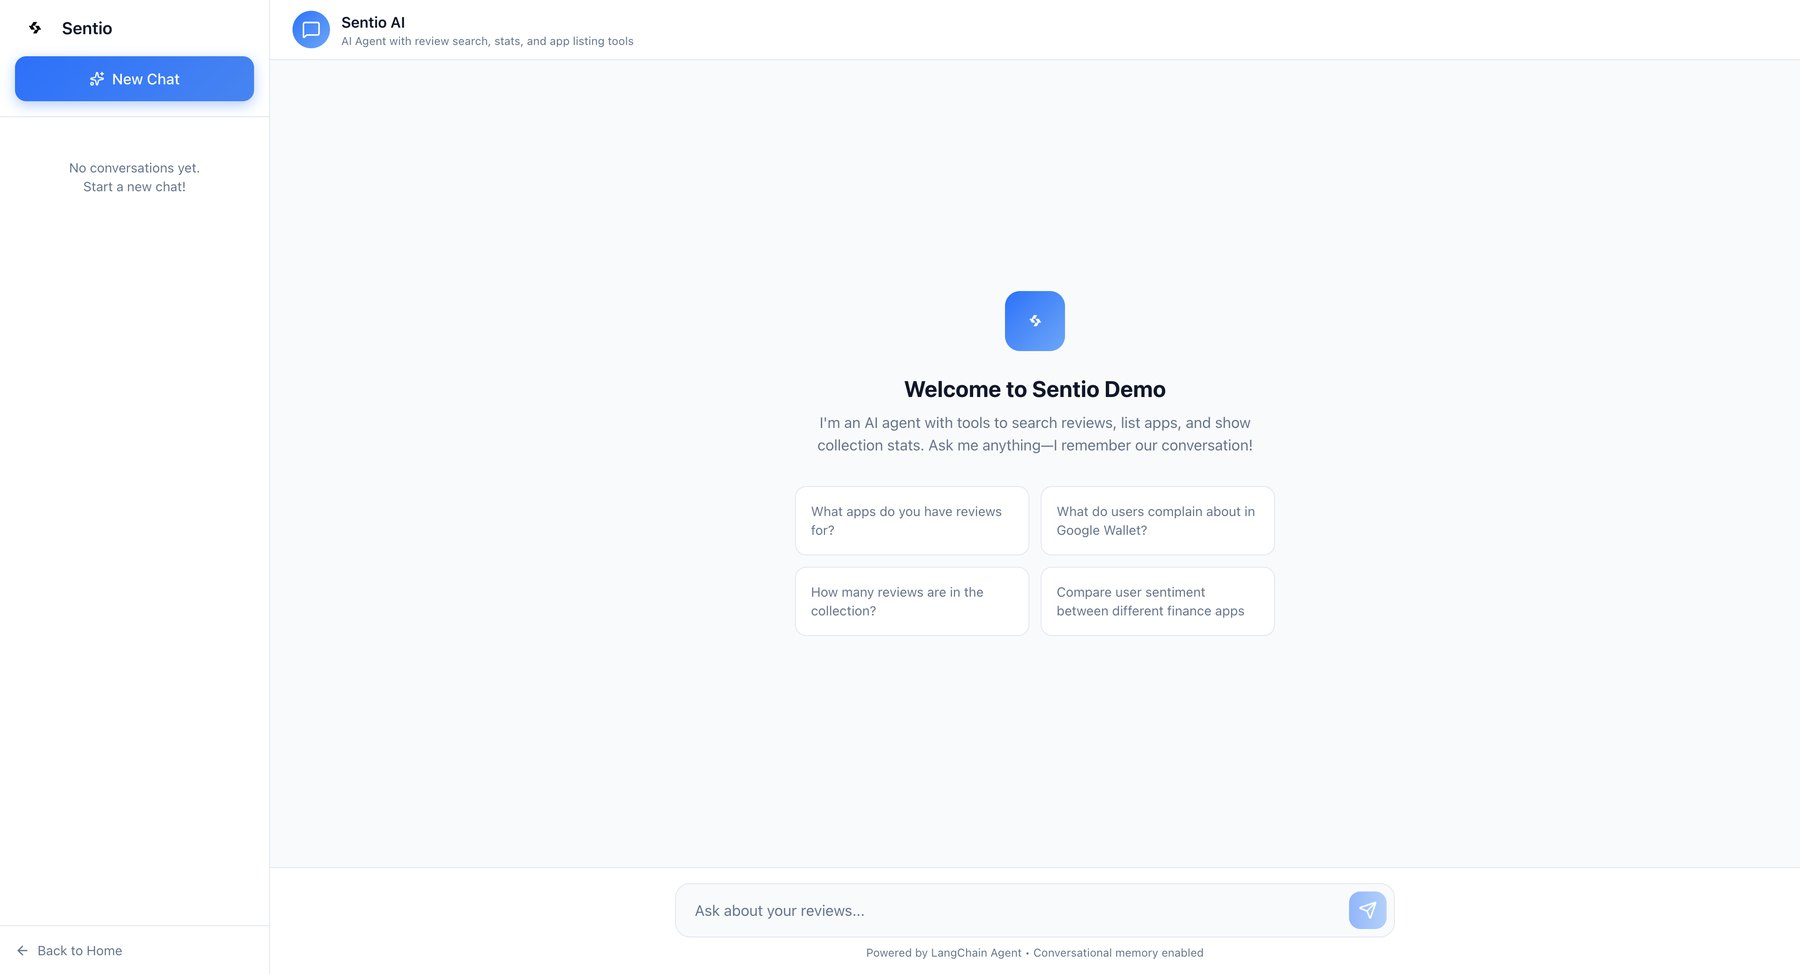
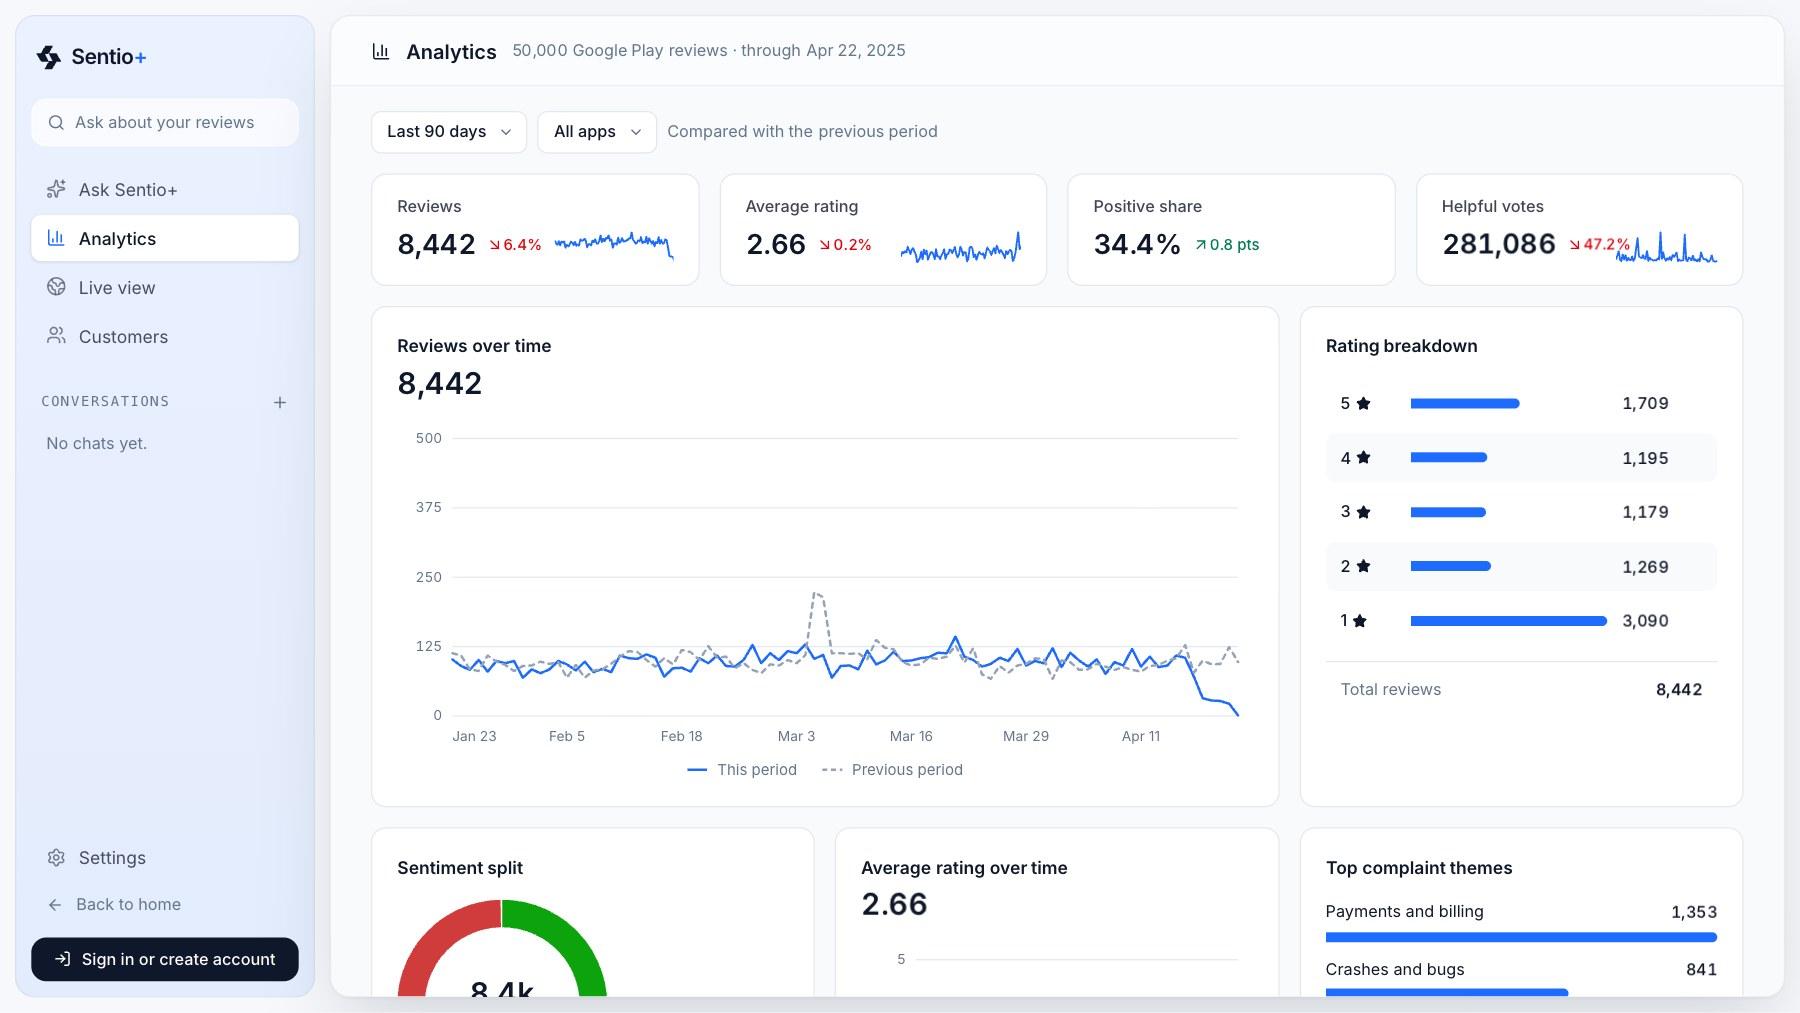
Sentio+: fresh Ask and Analytics captures from the current build

diff --git a/my-app/src/components/showcases/index.tsx b/my-app/src/components/showcases/index.tsx
@@ -134,7 +134,7 @@ const sentio: Showcase = {
       title: 'Ask a question, get an answer with receipts.',
       description:
         'A LangGraph agent runs semantic search over review embeddings in ChromaDB and answers in plain language, citing the specific reviews behind every claim so nothing rests on the model\'s word alone.',
-      media: { kind: 'browser', src: '/demos/sentio/overview.jpg', alt: 'Sentio+ landing view', ratio: 1800 / 973 },
+      media: { kind: 'browser', src: '/demos/sentio/overview.jpg', alt: 'Sentio+ Ask view', ratio: 16 / 9 },
     },
     {
       label: 'Insights',
@@ -142,7 +142,7 @@ const sentio: Showcase = {
       title: 'Sentiment traced back to the aspect driving it.',
       description:
         'Rather than one score per review, Sentio+ pulls out the specific aspects customers react to and tracks each across time, category, and rating — turning a pile of feedback into a trend a team can act on.',
-      media: { kind: 'browser', src: '/demos/sentio/insights.jpg', alt: 'Sentio+ insights view', ratio: 1800 / 974 },
+      media: { kind: 'browser', src: '/demos/sentio/insights.jpg', alt: 'Sentio+ analytics view', ratio: 16 / 9 },
     },
   ],
 };
